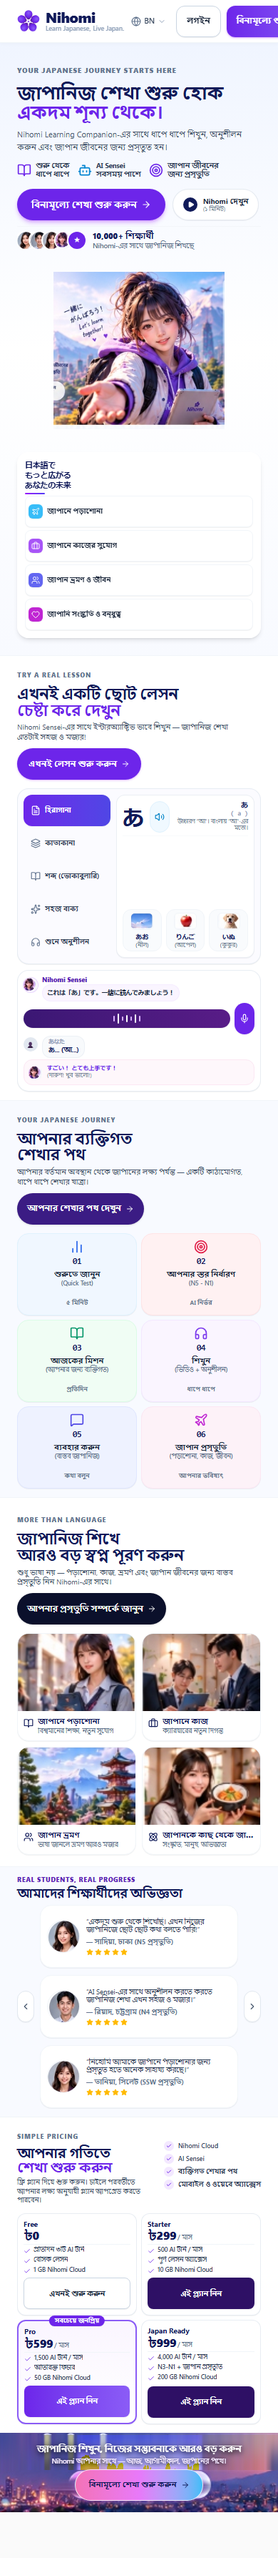
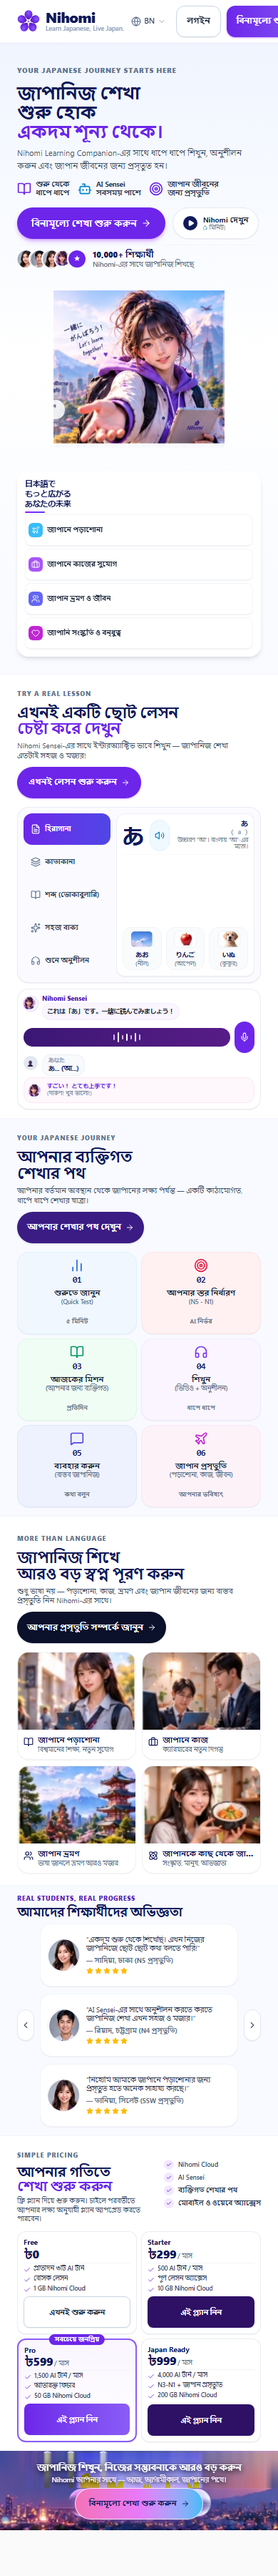
feat(landing): finalize V8.0 exact visual reference: restore 3-line hero headline and regenerate full verification evidence

diff --git a/src/components/landing-v2/HeroSection.tsx b/src/components/landing-v2/HeroSection.tsx
@@ -83,8 +83,9 @@ export const HeroSection: React.FC<HeroSectionProps> = ({ onNavigate }) => {
           </div>
 
           {/* Main Headline */}
-          <h1 className="text-2xl sm:text-3xl lg:text-[27px] font-black tracking-tight text-[#101A59] leading-[1.14]">
-            জাপানিজ শেখা শুরু হোক <br />
+          <h1 className="text-2xl sm:text-3xl lg:text-[27px] font-black tracking-tight text-[#101A59] leading-[1.12]">
+            জাপানিজ শেখা <br />
+            শুরু হোক <br />
             <span className="text-[#6D25EA]">একদম শূন্য থেকে।</span>
           </h1>
 
